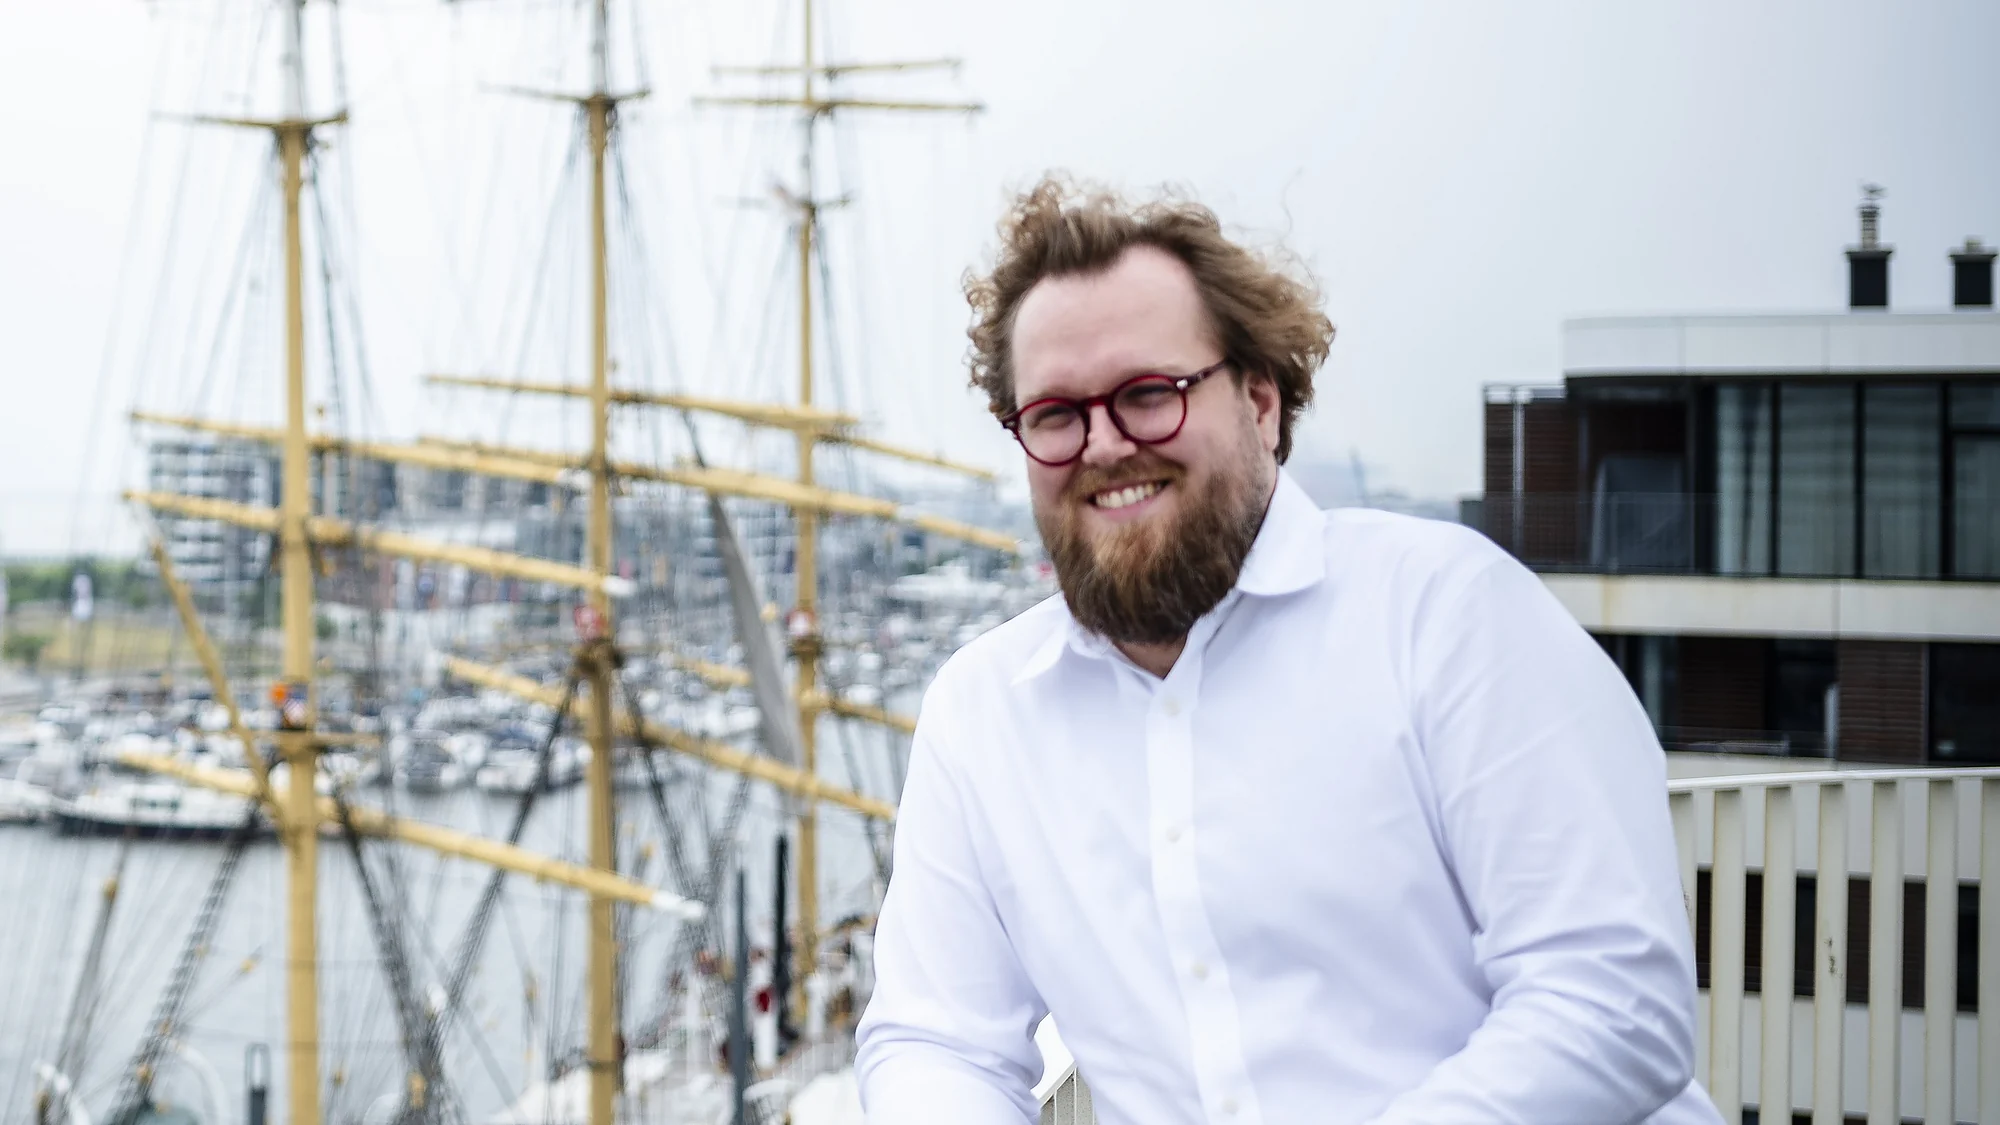
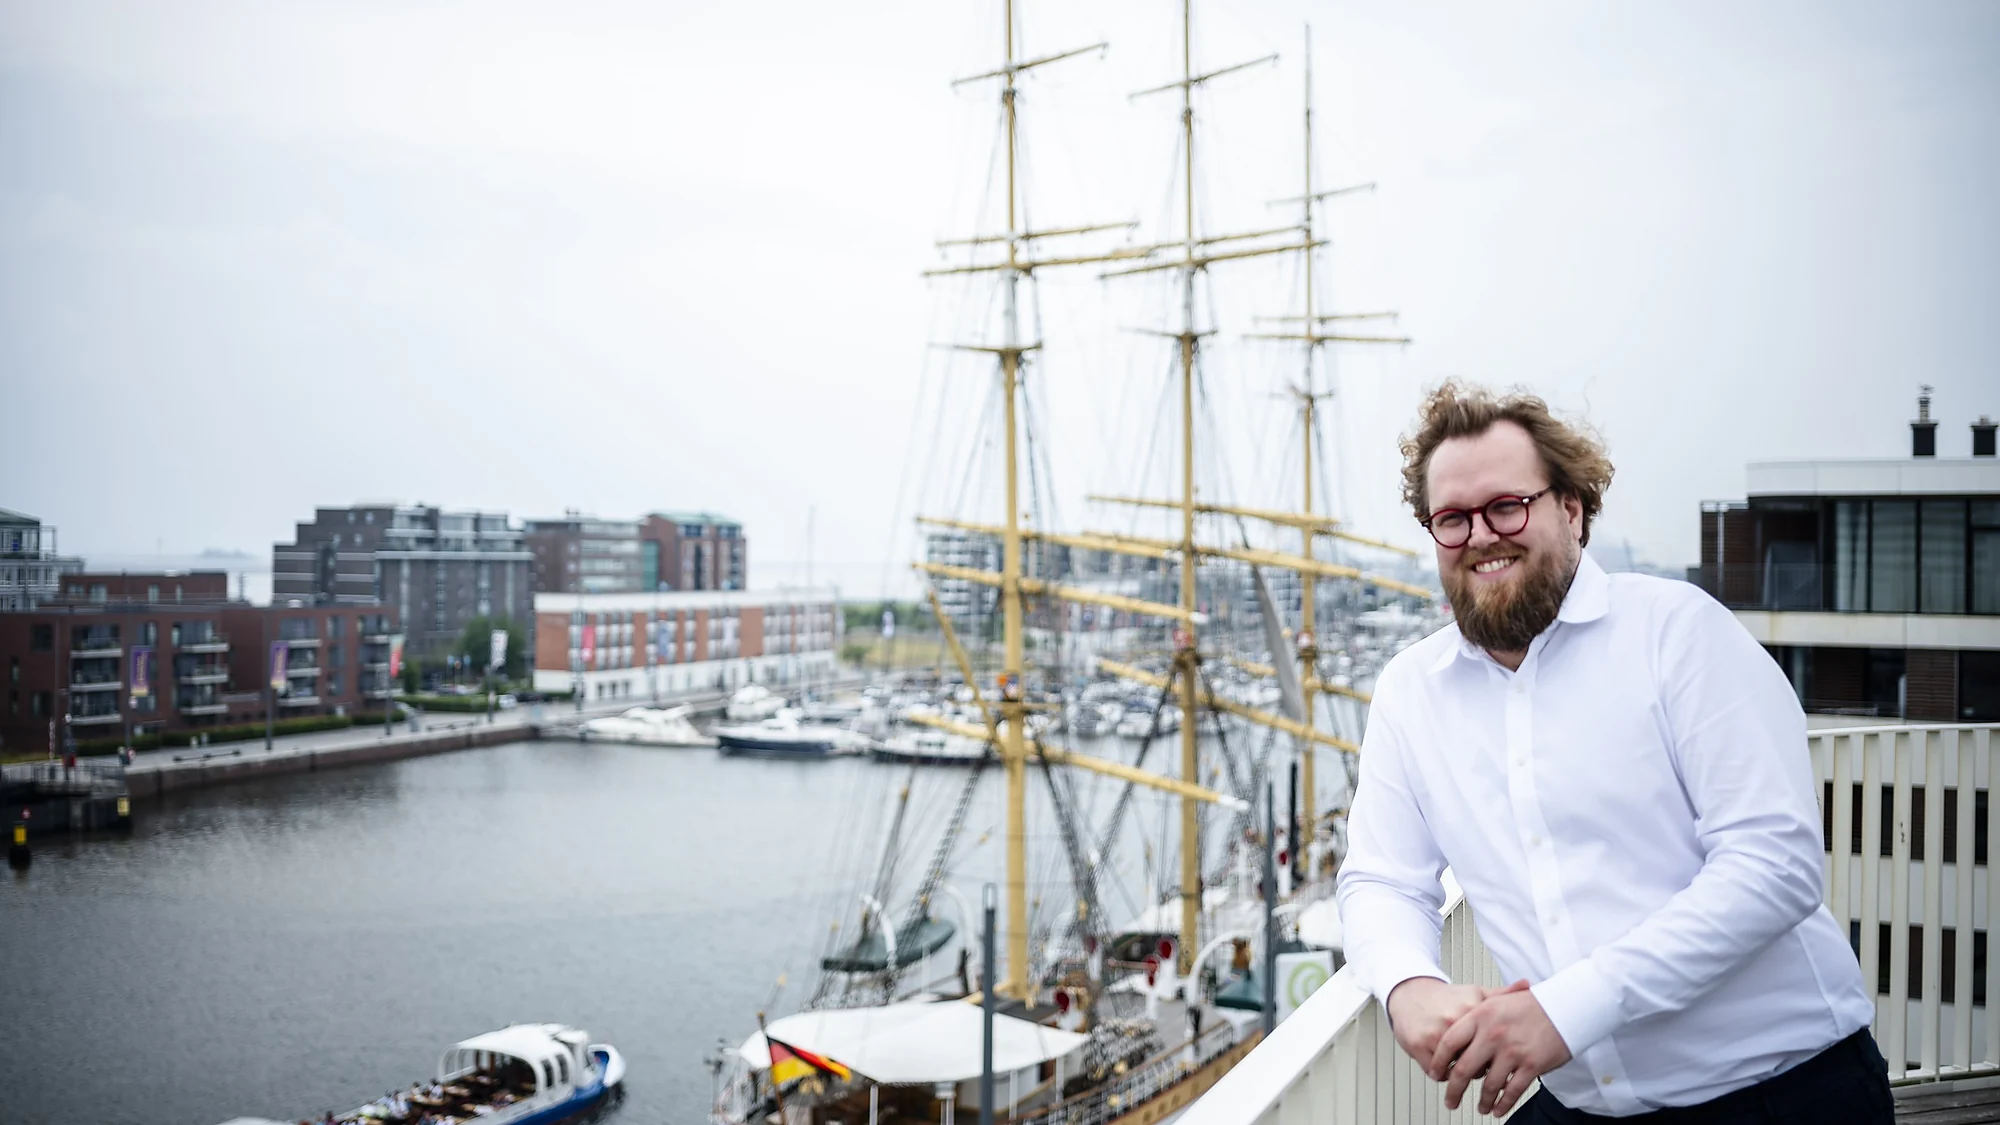
Website aktualisiert (2026-11-01)

diff --git a/index.html b/index.html
@@ -159,7 +159,7 @@
 
 
 
-<section class="buehne" style="--fx:57%"><div class="buehne-bild"><img src="img/b-feierabend-2000.webp" srcset="img/b-feierabend-1400.webp 1400w, img/b-feierabend-2000.webp 2000w, img/b-feierabend.webp 2880w" sizes="100vw" loading="lazy" decoding="async" class="on" alt="Nils Rochholl am Hafen, im Hintergrund ein Segelschiff"></div><div class="buehne-text"><div class="wrap"><p class="buehne-kicker">Später am selben Tag</p><p class="buehne-satz">Der Moment, in dem es <em>wieder läuft.</em></p></div></div></section>
+<section class="buehne" style="--fx:76%"><div class="buehne-bild"><img src="img/b-feierabend-2000.webp" srcset="img/b-feierabend-1400.webp 1400w, img/b-feierabend-2000.webp 2000w, img/b-feierabend.webp 2880w" sizes="100vw" loading="lazy" decoding="async" class="on" alt="Nils Rochholl am Hafen, im Hintergrund ein Segelschiff"></div><div class="buehne-text"><div class="wrap"><p class="buehne-kicker">Später am selben Tag</p><p class="buehne-satz">Der Moment, in dem es <em>wieder läuft.</em></p></div></div></section>
 
 <section class="band petrol cta-band" id="taktcheck"><div class="wrap">
   <div><p class="eyebrow" style="margin-bottom:1rem">Taktcheck</p><h2>15 Minuten, die sich lohnen.</h2></div>

diff --git a/assets/site.js b/assets/site.js
@@ -120,7 +120,7 @@
       // Bühne öffnet sich auf volle Breite, Bild zoomt langsam heraus
       document.querySelectorAll('.buehne').forEach(function(b){
         var r = b.getBoundingClientRect(); if (r.height === 0) return;
-        var auf = clamp((h - r.top) / (h * 0.9));          // 0 = kommt rein, 1 = oben angekommen
+        var auf = clamp((h - r.top) / (h * 0.6));          // 0 = kommt rein, 1 = oben angekommen
         var durch = clamp((h - r.top) / (h + r.height));   // Fortschritt über die ganze Strecke
         var rand = Math.min(48, window.innerWidth * 0.05);
         b.style.setProperty('--bi', (rand * (1 - auf)).toFixed(1) + 'px');
